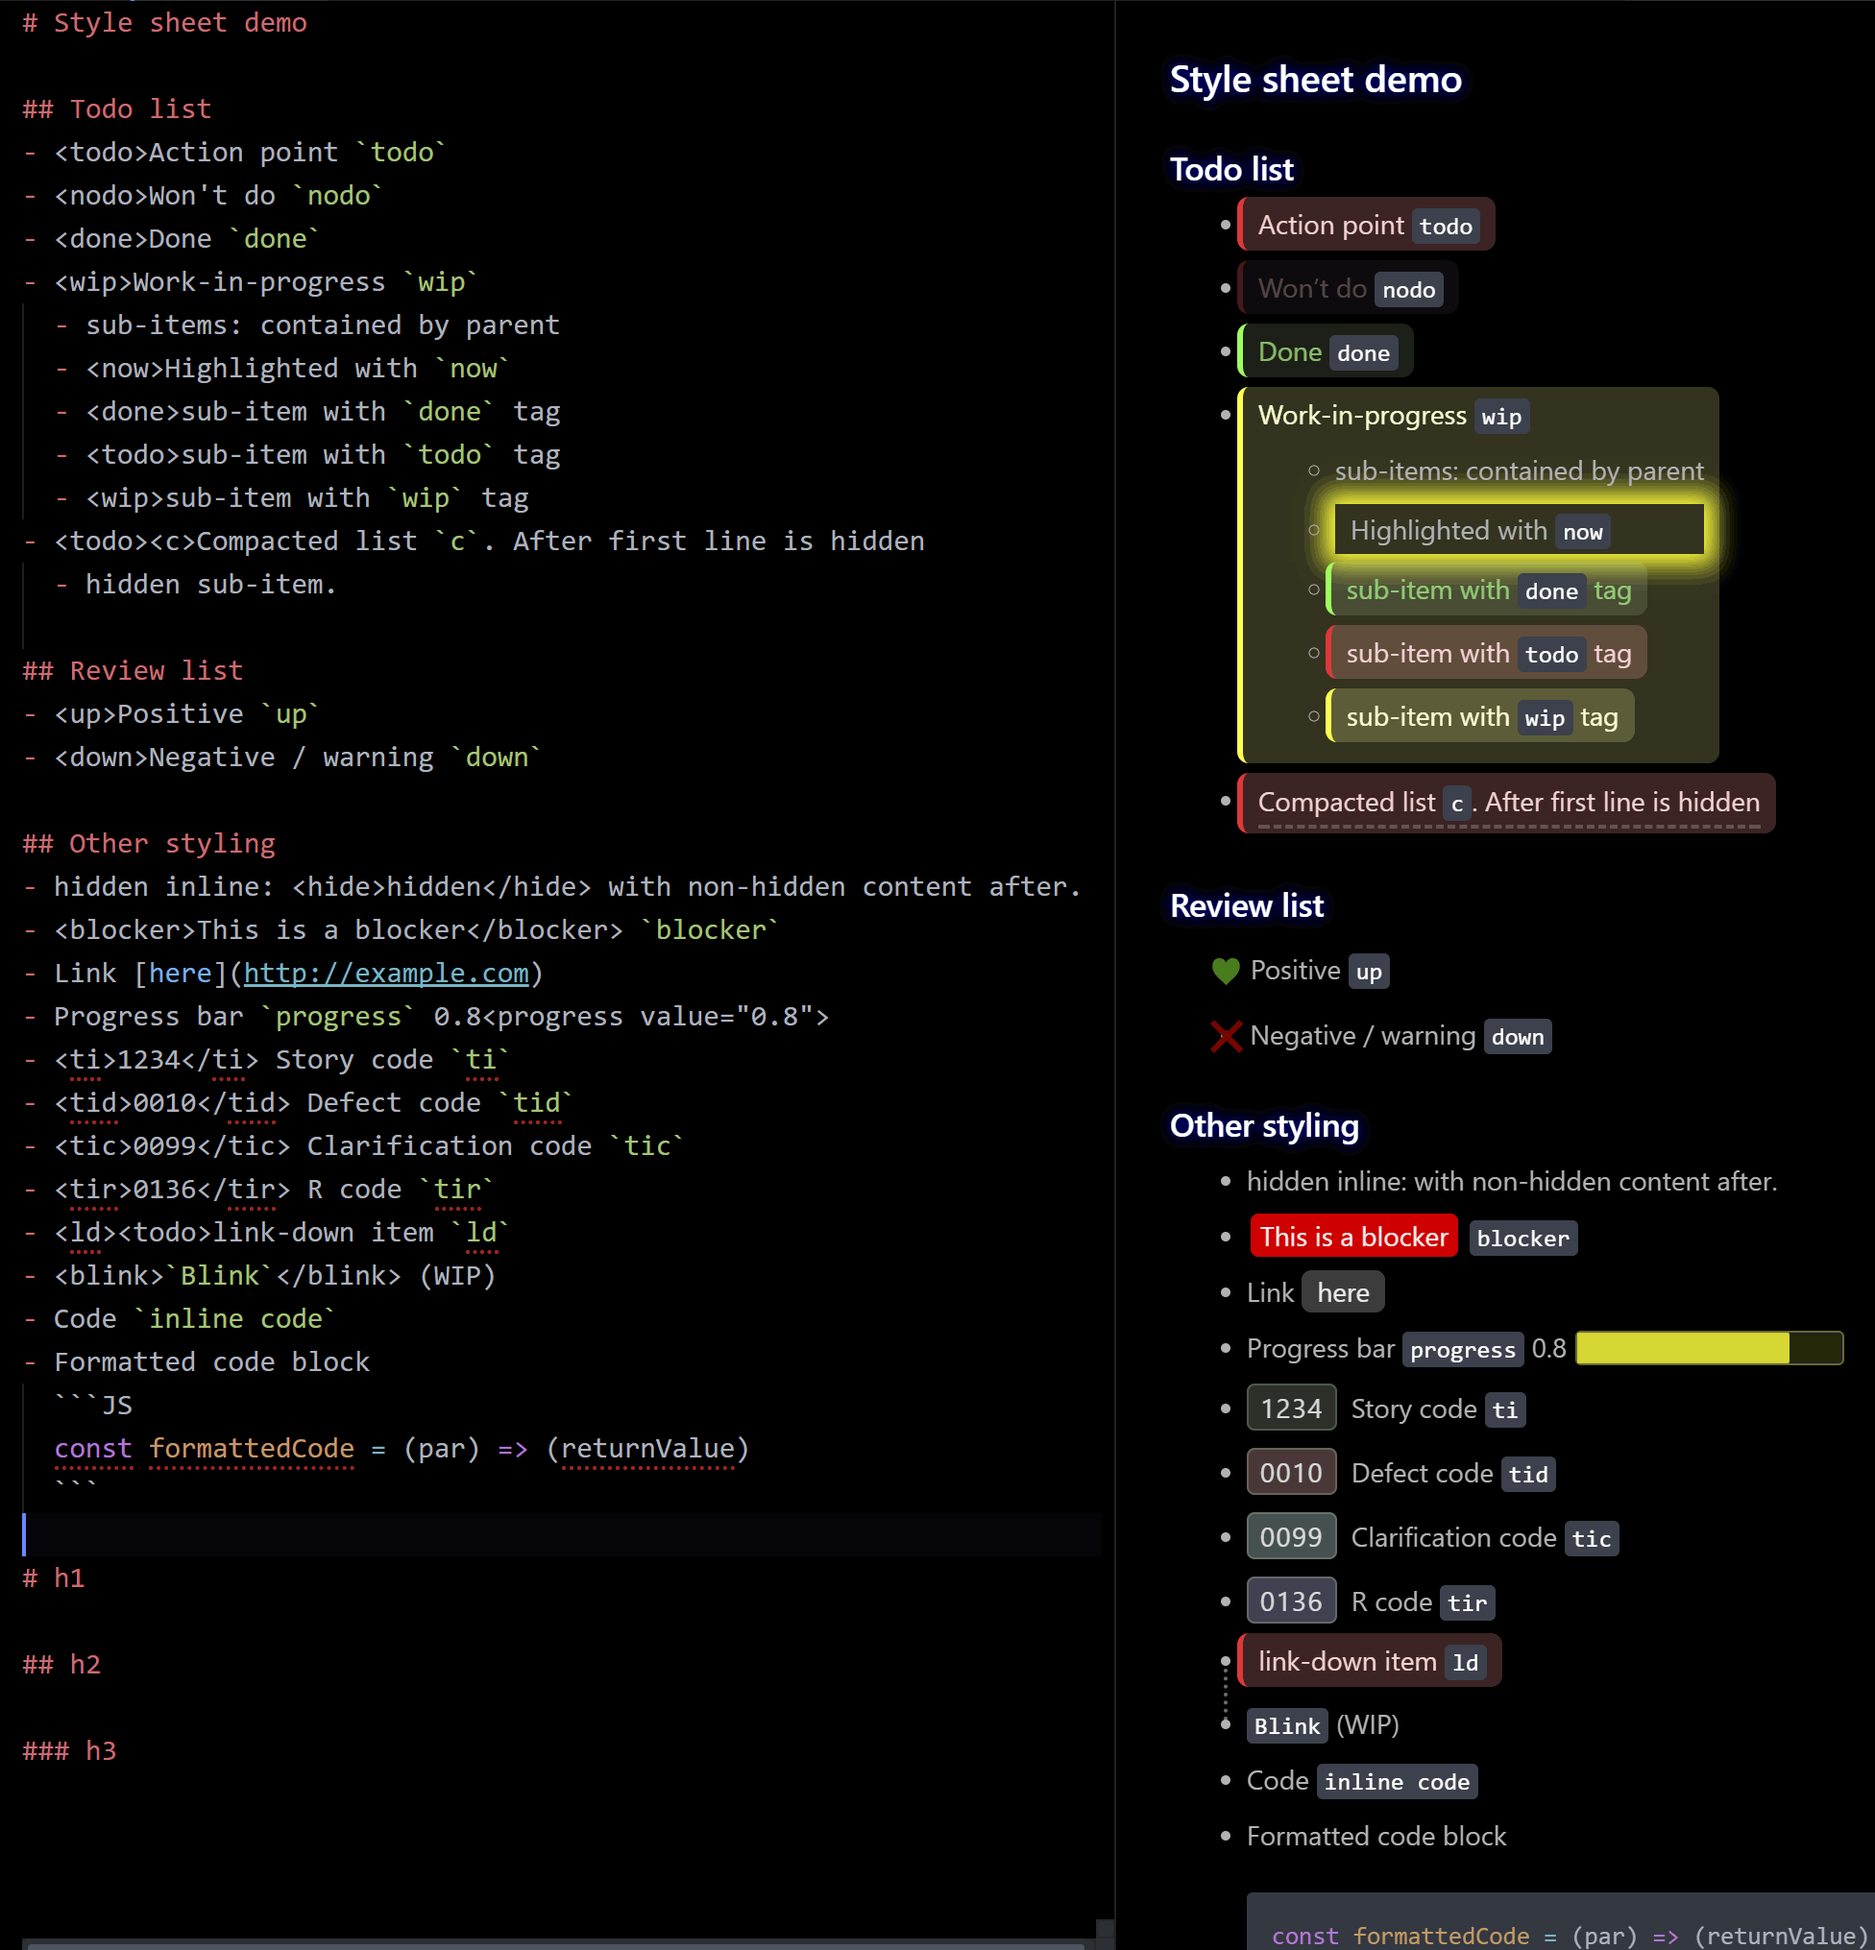
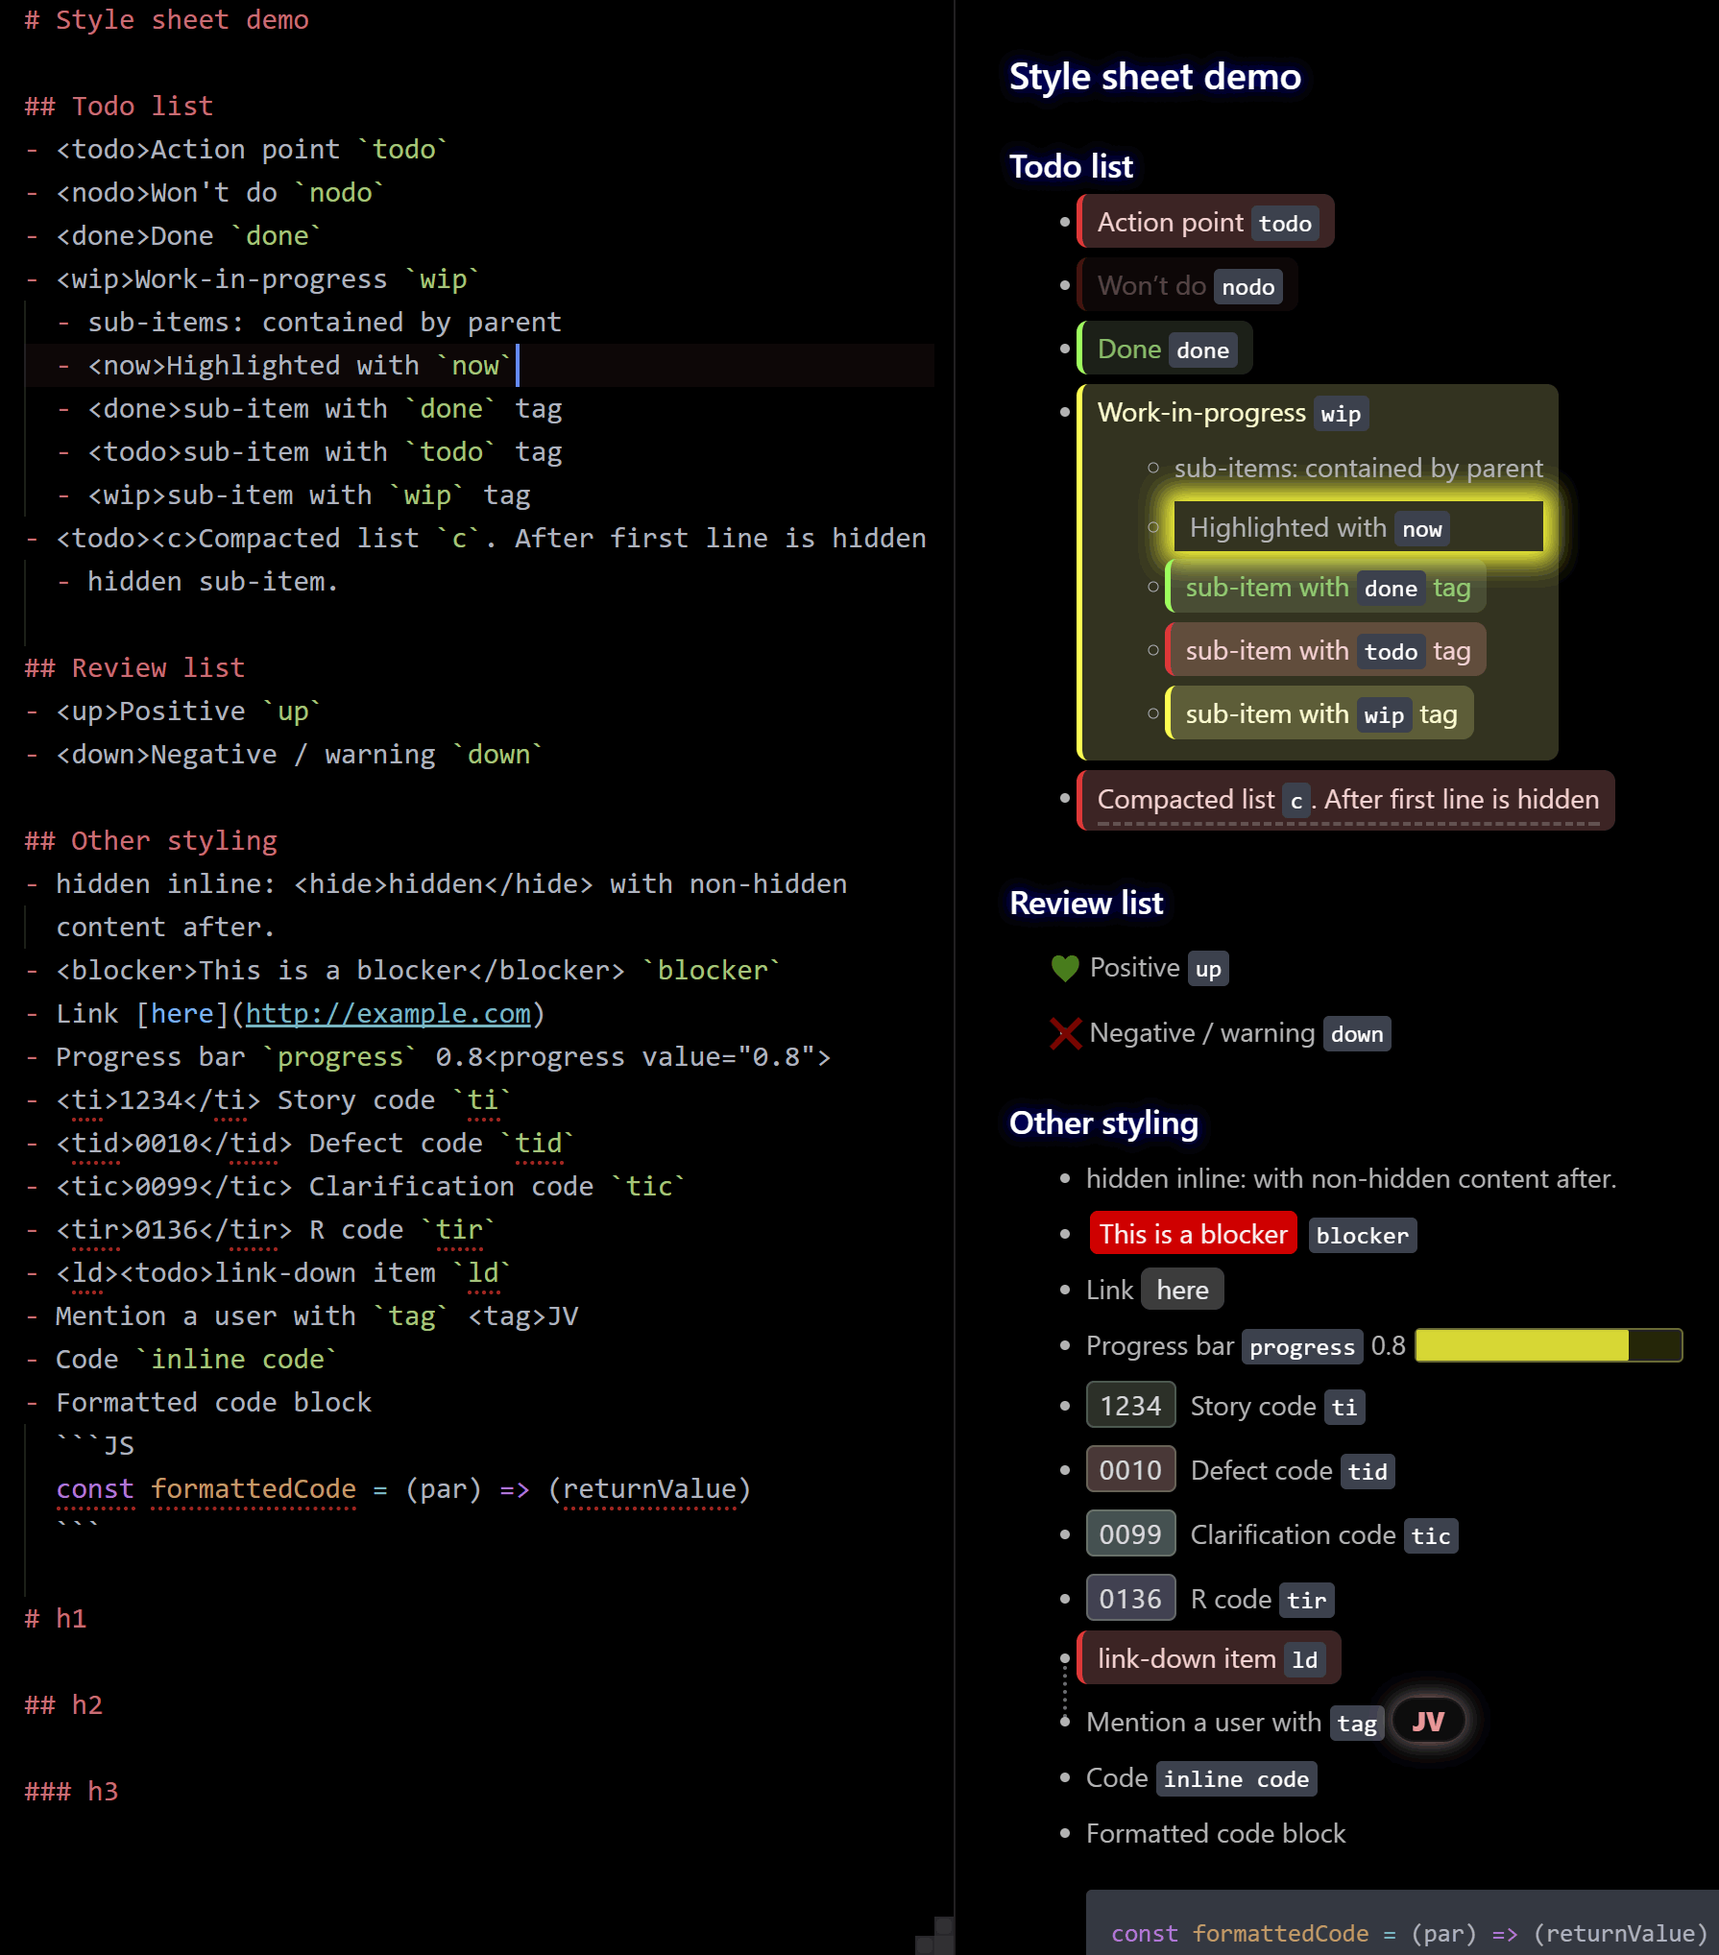
Add files via upload
- Removed unimplemented `blink` tag
- Tidying: added comments and re-ordered code

Changed region(s): [[0.0, 0.031, 1.0, 1.0], [0.0, 0.0, 0.5223, 0.3102], [0.0, 0.8065, 0.0615, 0.9306]]

diff --git a/add to styles.less b/add to styles.less
@@ -128,13 +128,14 @@ markdown-preview-plus-view.native-key-bindings {
     text-shadow: 3px 0px 4px black;
   }
 
-  /* now ****/
+  /* now */
   & li now {
     display: block;
     padding: 2px 8px;
     box-shadow: 0px 0px 20px 6px hsla(60,100%, 50%, 1);
   }
 
+  /* c: collapsed */
   & c {
     height: 1.8em;
     vertical-align: middle;
@@ -143,12 +144,6 @@ markdown-preview-plus-view.native-key-bindings {
     overflow: hidden;
   }
 
-}
-
-@keyframes blink {
-    0% { color: hsl(60,100%,50%); }
-   50% { color: hsl(60,100%,100%); }
-  100% { color: hsl(60,100%,50%); }
 }
 
 
@@ -170,17 +165,8 @@ tid { background: hsla(0,80%,85%,0.32) }
 tir { background: hsla(240,80%,90%,0.32) }
 tic { background: hsla(180,90%,90%,0.32) }
 
-blocker {
-  color: #FEE;
-  background-color: #E00;
-  padding: 2px 5px;
-  margin: 0px 2px;
-  border-radius: 4px;
-}
-blocker:hover:after {
-  margin-left: 1rem;
-  content: 'BLOCKED'
-}
+
+/* Item State */
 
 todo, nodo, wip, done, park {
   display: inline-block;
@@ -241,4 +227,18 @@ park:hover:after {
   color: hsla(@hue_park,0%,70%,1);
   background-color: hsla(@hue_park,0%,100%,0.1);
   padding: 2px 8px;
+}
+
+/* Blocker tag */
+
+blocker {
+  color: #FEE;
+  background-color: #E00;
+  padding: 2px 5px;
+  margin: 0px 2px;
+  border-radius: 4px;
+}
+blocker:hover:after {
+  margin-left: 1rem;
+  content: 'BLOCKED'
 }

diff --git a/markdown list stylesheet page.md b/markdown list stylesheet page.md
@@ -27,7 +27,7 @@
 - <tic>0099</tic> Clarification code `tic`
 - <tir>0136</tir> R code `tir`
 - <ld><todo>link-down item `ld`
-- <blink>`Blink`</blink> (WIP)
+- Mention a user with `tag` <tag>JV
 - Code `inline code`
 - Formatted code block
   ```JS
